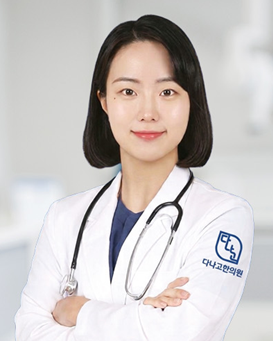
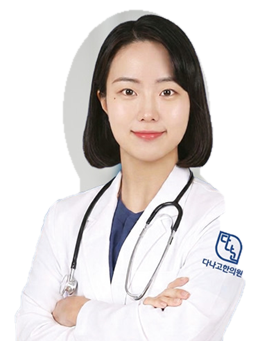
Add files via upload

diff --git a/doctors.html b/doctors.html
@@ -1,7 +1,7 @@
 <!DOCTYPE html>
 
-<html lang="ko"><head><meta charset="utf-8"/><meta content="width=device-width, initial-scale=1, viewport-fit=cover" name="viewport"/><meta content="#2454a6" name="theme-color"/><meta content="다나고한의원 의료진 소개. 장혜민, 김지수, 김진규, 방재호 원장의 학력 및 경력을 안내합니다." name="description"/><title>의료진 소개 | 다나고한의원</title><link href="danago-logo.png" rel="icon"/><link href="styles.css" rel="stylesheet"/></head><body><header class="header"><a aria-label="다나고한의원 홈" class="brand" href="index.html"><img alt="다나고한의원 로고" src="danago-logo.png"/></a><button aria-expanded="false" aria-label="메뉴 열기" class="menu-toggle"><span></span><span></span></button><nav class="nav" id="site-nav"><a href="index.html">홈</a><a href="index.html#care">진료안내</a><a aria-current="page" href="doctors.html">의료진 소개</a><a href="index.html#visit">오시는 길</a><a class="nav-cta" href="https://map.naver.com/p/search/다나고한의원%20병점" rel="noopener" target="_blank">네이버 예약·안내 ↗</a></nav></header><main class="doctors-page"><div class="doctors-page-intro"><p class="eyebrow">DANAGO KOREAN MEDICINE CLINIC · OUR DOCTORS</p><h1>다나고한의원 <em>의료진을 소개합니다.</em></h1><p>환자 한 분 한 분의 상태를 세심하게 살피겠습니다.</p></div> <section class="section doctors-section" id="doctors">
-<div class="section-kicker"><span>MEET OUR DOCTORS</span><b></b></div>
+<html lang="ko"><head><meta charset="utf-8"/><meta content="width=device-width, initial-scale=1, viewport-fit=cover" name="viewport"/><meta content="#2454a6" name="theme-color"/><meta content="다나고한의원 의료진 소개. 장혜민, 김지수, 김진규, 방재호 원장의 학력 및 경력을 안내합니다." name="description"/><title>의료진 소개 | 다나고한의원</title><link href="danago-logo.png" rel="icon"/><link href="styles.css" rel="stylesheet"/></head><body><header class="header"><a aria-label="다나고한의원 홈" class="brand" href="index.html"><img alt="다나고한의원 로고" src="danago-logo.png"/></a><button aria-expanded="false" aria-label="메뉴 열기" class="menu-toggle"><span></span><span></span></button><nav class="nav" id="site-nav"><a href="index.html">홈</a><a href="index.html#care">진료안내</a><a aria-current="page" href="doctors.html">의료진 소개</a><a href="index.html#visit">오시는 길</a><a class="nav-cta" href="https://map.naver.com/p/search/다나고한의원%20병점" rel="noopener" target="_blank">네이버 예약·안내 ↗</a></nav></header><main class="doctors-page"><div class="doctors-page-intro"><p class="eyebrow"> · OUR DOCTORS</p><h1>다나고한의원 <em>의료진을 소개합니다.</em></h1><p>환자 한 분 한 분의 상태를 세심하게 살피겠습니다.</p></div> <section class="section doctors-section" id="doctors">
+<div class="section-kicker"><span></span><b></b></div>
 <div class="section-head doctors-head">
 <h2>다나고한의원<br/><em>의료진을 소개합니다.</em></h2>
 <p>네 분의 의료진을 소개합니다.</p>
@@ -10,30 +10,30 @@
 <article class="doctor-card">
 <div class="doctor-photo"><img alt="장혜민 진료원장 프로필 사진" loading="lazy" src="doctor-1.png"/></div>
 <div class="doctor-info">
-<span class="doctor-role">DANAGO CLINIC</span><h3>장혜민</h3><p class="doctor-title">진료원장</p>
-<ul class="doctor-bio"><li>경희대학교 학사 졸업</li></ul>
+<span class="doctor-role"></span><h3>장혜민</h3><p class="doctor-title">진료원장</p>
+<ul class="doctor-bio"><li>경희대학교 한의학과 학사 졸업</li><li>現 다나고한의원 진료원장</li><li>대한한의학회 회원</li><li>한방재활의학과학회 회원</li><li>한방비만학회 회원</li></ul>
 </div>
 </article>
 <article class="doctor-card">
 <div class="doctor-photo"><img alt="김지수 진료원장 프로필 사진" loading="lazy" src="doctor-2.png"/></div>
 <div class="doctor-info">
-<span class="doctor-role">DANAGO CLINIC</span><h3>김지수</h3><p class="doctor-title">진료원장</p>
-<ul class="doctor-bio"><li>경희대학교 학사 졸업</li></ul>
+<span class="doctor-role"></span><h3>김지수</h3><p class="doctor-title">진료원장</p>
+<ul class="doctor-bio"><li>경희대학교 한의학과 학사 졸업</li><li>現 다나고한의원 진료원장</li><li>前 천안 바른한방병원 진료원장</li><li>前 수원 안목한의원 진료원장</li><li>한방비만학회 회원</li><li>대한스포츠한의학회 회원</li></ul>
 </div>
 </article>
 <article class="doctor-card">
 <div class="doctor-photo"><img alt="김진규 대표원장 프로필 사진" loading="lazy" src="doctor-3.png"/></div>
 <div class="doctor-info">
-<span class="doctor-role">DANAGO CLINIC</span><h3>김진규</h3><p class="doctor-title">대표원장</p>
-<ul class="doctor-bio"><li>경희대학교 석사 졸업</li></ul>
+<span class="doctor-role"></span><h3>김진규</h3><p class="doctor-title">대표원장</p>
+<ul class="doctor-bio"><li>경희대학교 한의학과 석사 졸업</li><li>現 다나고한의원 대표원장</li><li>前 아산시 보건소 공중보건의사</li><li>前 강남경희한의원 진료원장</li><li>한방비만학회 정회원</li><li>척추신경추나의학회 정회원</li></ul>
 </div>
 </article>
 <article class="doctor-card">
 <div class="doctor-photo"><img alt="방재호 진료원장 프로필 사진" loading="lazy" src="doctor-4.png"/></div>
 <div class="doctor-info">
-<span class="doctor-role">DANAGO CLINIC</span><h3>방재호</h3><p class="doctor-title">진료원장</p>
-<ul class="doctor-bio"><li>경희대학교 학사 졸업</li></ul>
+<span class="doctor-role"></span><h3>방재호</h3><p class="doctor-title">진료원장</p>
+<ul class="doctor-bio"><li>경희대학교 한의학과 학사 졸업</li><li>現 다나고한의원 진료원장</li><li>前 남원시 보건소 한의과 대표과장</li><li>척추신경추나의학회 정회원</li><li>미국 근골격계 초음파 자격증 보유</li><li>대한침도의학회 정회원</li></ul>
 </div>
 </article>
 </div>
-</section><div class="doctors-contact"><div><strong>진료 및 예약 문의</strong><p>031-526-1331</p></div><a href="tel:0315261331">전화 문의 ↗</a><a href="https://map.naver.com/p/search/다나고한의원%20병점" rel="noopener" target="_blank">네이버 플레이스 ↗</a></div></main><footer class="footer"><a class="footer-logo" href="index.html"><img alt="다나고한의원" src="danago-logo.png"/></a><div class="footer-main"><p>경기도 화성시 병점노을4로 5, 304~305호 (주소 확인 필요)</p><p>전화 <a href="tel:0315261331">031-526-1331</a></p></div><small>© DANAGO KOREAN MEDICINE CLINIC.</small></footer><div class="mobile-dock"><a href="tel:0315261331">☎ 전화 문의</a><a href="https://map.naver.com/p/search/다나고한의원%20병점" rel="noopener" target="_blank">N 네이버 안내</a></div><script src="script.js"></script></body></html>
+</section><div class="doctors-contact"><div><strong>진료 및 예약 문의</strong><p>031-526-1331</p></div><a href="tel:0315261331">전화 문의 ↗</a><a href="https://map.naver.com/p/search/다나고한의원%20병점" rel="noopener" target="_blank">네이버 플레이스 ↗</a></div></main><footer class="footer"><a class="footer-logo" href="index.html"><img alt="다나고한의원" src="danago-logo.png"/></a><div class="footer-main"><p>경기도 화성시 병점노을4로 5, 304~305호 (주소 확인 필요)</p><p>전화 <a href="tel:0315261331">031-526-1331</a></p></div><small>© .</small></footer><div class="mobile-dock"><a href="tel:0315261331">☎ 전화 문의</a><a href="https://map.naver.com/p/search/다나고한의원%20병점" rel="noopener" target="_blank">N 네이버 안내</a></div><script src="script.js"></script></body></html>

diff --git a/index.html b/index.html
@@ -31,7 +31,7 @@
 <section class="hero">
 <div class="hero-inner">
 <div class="hero-copy">
-<p class="eyebrow"><span class="eyebrow-line"></span> DANAGO KOREAN MEDICINE CLINIC</p>
+<p class="eyebrow"><span class="eyebrow-line"></span> </p>
 <h1>다 낫게 해드리고 싶은 마음으로<br/>진료합니다</h1>
 <div class="hero-buttons">
 <a class="btn btn-primary" href="https://map.naver.com/p/search/다나고한의원%20병점" rel="noopener" target="_blank">진료·예약 안내 <span>↗</span></a>
@@ -103,7 +103,7 @@
 </div>
 </div>
 </section><section class="section doctors-section" id="doctors">
-<div class="section-kicker"><span>MEET OUR DOCTORS</span><b></b></div>
+<div class="section-kicker"><span></span><b></b></div>
 <div class="section-head doctors-head">
 <h2>다나고한의원<br/><em>의료진을 소개합니다.</em></h2>
 <p>네 분의 의료진을 소개합니다.</p>
@@ -112,29 +112,29 @@
 <article class="doctor-card">
 <div class="doctor-photo"><img alt="장혜민 진료원장 프로필 사진" loading="lazy" src="doctor-1.png"/></div>
 <div class="doctor-info">
-<span class="doctor-role">DANAGO CLINIC</span><h3>장혜민</h3><p class="doctor-title">진료원장</p>
-<ul class="doctor-bio"><li>경희대학교 학사 졸업</li></ul>
+<span class="doctor-role"></span><h3>장혜민</h3><p class="doctor-title">진료원장</p>
+<ul class="doctor-bio"><li>경희대학교 한의학과 학사 졸업</li><li>現 다나고한의원 진료원장</li><li>대한한의학회 회원</li><li>한방재활의학과학회 회원</li><li>한방비만학회 회원</li></ul>
 </div>
 </article>
 <article class="doctor-card">
 <div class="doctor-photo"><img alt="김지수 진료원장 프로필 사진" loading="lazy" src="doctor-2.png"/></div>
 <div class="doctor-info">
-<span class="doctor-role">DANAGO CLINIC</span><h3>김지수</h3><p class="doctor-title">진료원장</p>
-<ul class="doctor-bio"><li>경희대학교 학사 졸업</li></ul>
+<span class="doctor-role"></span><h3>김지수</h3><p class="doctor-title">진료원장</p>
+<ul class="doctor-bio"><li>경희대학교 한의학과 학사 졸업</li><li>現 다나고한의원 진료원장</li><li>前 천안 바른한방병원 진료원장</li><li>前 수원 안목한의원 진료원장</li><li>한방비만학회 회원</li><li>대한스포츠한의학회 회원</li></ul>
 </div>
 </article>
 <article class="doctor-card">
 <div class="doctor-photo"><img alt="김진규 대표원장 프로필 사진" loading="lazy" src="doctor-3.png"/></div>
 <div class="doctor-info">
-<span class="doctor-role">DANAGO CLINIC</span><h3>김진규</h3><p class="doctor-title">대표원장</p>
-<ul class="doctor-bio"><li>경희대학교 석사 졸업</li></ul>
+<span class="doctor-role"></span><h3>김진규</h3><p class="doctor-title">대표원장</p>
+<ul class="doctor-bio"><li>경희대학교 한의학과 석사 졸업</li><li>現 다나고한의원 대표원장</li><li>前 아산시 보건소 공중보건의사</li><li>前 강남경희한의원 진료원장</li><li>한방비만학회 정회원</li><li>척추신경추나의학회 정회원</li></ul>
 </div>
 </article>
 <article class="doctor-card">
 <div class="doctor-photo"><img alt="방재호 진료원장 프로필 사진" loading="lazy" src="doctor-4.png"/></div>
 <div class="doctor-info">
-<span class="doctor-role">DANAGO CLINIC</span><h3>방재호</h3><p class="doctor-title">진료원장</p>
-<ul class="doctor-bio"><li>경희대학교 학사 졸업</li></ul>
+<span class="doctor-role"></span><h3>방재호</h3><p class="doctor-title">진료원장</p>
+<ul class="doctor-bio"><li>경희대학교 한의학과 학사 졸업</li><li>現 다나고한의원 진료원장</li><li>前 남원시 보건소 한의과 대표과장</li><li>척추신경추나의학회 정회원</li><li>미국 근골격계 초음파 자격증 보유</li><li>대한침도의학회 정회원</li></ul>
 </div>
 </article>
 </div>
@@ -165,7 +165,7 @@
 </div>
 </section>
 <section class="contact-band">
-<div class="contact-copy"><span class="contact-eyebrow">DANAGO KOREAN MEDICINE CLINIC</span><h2>궁금한 점은<br/>편하게 문의하세요.</h2><p>진료 및 예약 관련 최신 정보는 네이버 플레이스에서 확인하실 수 있습니다.</p></div>
+<div class="contact-copy"><span class="contact-eyebrow"></span><h2>궁금한 점은<br/>편하게 문의하세요.</h2><p>진료 및 예약 관련 최신 정보는 네이버 플레이스에서 확인하실 수 있습니다.</p></div>
 <div class="contact-actions"><a class="btn btn-white" href="tel:0315261331">전화 문의 <span>031-526-1331</span></a><a class="btn btn-glass" href="https://map.naver.com/p/search/다나고한의원%20병점" rel="noopener" target="_blank">네이버 플레이스 ↗</a></div>
 <div class="contact-decoration"></div>
 </section>
@@ -175,7 +175,7 @@
 <div class="footer-main"><p>경기도 화성시 병점노을4로 5, 304~305호 <span>(공개 안내 자료 기준)</span></p><p>전화 <a href="tel:0315261331">031-526-1331</a></p></div>
 <div class="footer-links"><a href="https://blog.naver.com/danago_hani" rel="noopener" target="_blank">네이버 블로그 ↗</a><a href="https://map.naver.com/p/search/다나고한의원%20병점" rel="noopener" target="_blank">네이버 플레이스 ↗</a></div>
 <p class="disclaimer">본 홈페이지는 진료 안내를 위한 초안입니다. 실제 진료 내용·운영시간·주소·예약 링크를 확인한 뒤 공개해 주세요. 치료 효과를 보장하지 않으며, 개인의 상태에 따라 진료 내용은 달라질 수 있습니다.</p>
-<small class="copyright">© <span id="year"></span> DANAGO KOREAN MEDICINE CLINIC. ALL RIGHTS RESERVED.</small>
+<small class="copyright">© <span id="year"></span> . ALL RIGHTS RESERVED.</small>
 </footer>
 <div aria-label="빠른 문의" class="mobile-dock">
 <a href="tel:0315261331"><span>☎</span> 전화 문의</a>

diff --git a/styles.css b/styles.css
@@ -139,3 +139,8 @@
 .doctor-photo{background:#fff!important;overflow:hidden}
 .doctor-info h3{overflow-wrap:keep-all}
 @media(max-width:640px){.doctor-card{display:block}.doctor-photo{height:300px;min-height:0}.doctor-info{padding:18px 20px 24px}.doctor-info h3{font-size:25px!important}.doctor-bio{font-size:16px!important;line-height:1.65}.quick-text strong{font-size:15px}.quick-text small{font-size:12px}.section-head p{font-size:15px}}
+
+/* 의료진 원본 인물 누끼 이미지 */
+.doctor-photo { background: transparent !important; }
+.doctor-photo img { background: transparent !important; object-fit: contain !important; }
+.doctor-role:empty, .section-kicker span:empty {display:none !important;}

diff --git a/README.md b/README.md
@@ -1,1 +1,3 @@
 다나고한의원 홈페이지 v7 — 기존 블루/화이트 스타일 유지, 하단 의료진 4명 소개, 제공된 원본 사진 4장 사용. 메인 문구 마침표 없음. 진료 분야 5개 유지. ZIP 압축 해제 후 파일 전체를 GitHub 저장소 최상위에 업로드하세요. 네이버 예약 링크는 네이버 지도 검색 링크로 설정되어 있으니 실제 예약 링크로 교체해 주세요.
+
+의료진 사진: 사용자가 제공한 사진을 기반으로 배경을 분리한 투명 PNG 4장. 자동 분리 경계는 공개 전 확인 권장.
